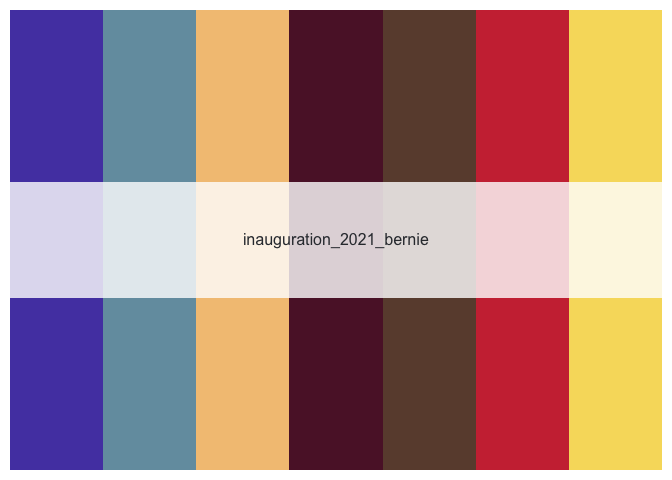
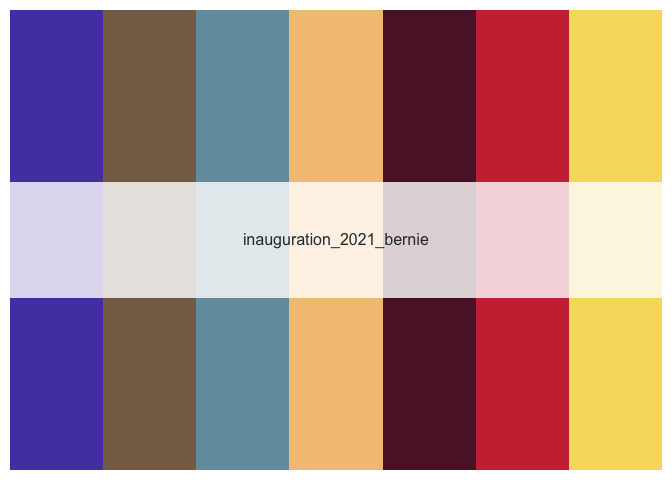
update readme

diff --git a/README.md b/README.md
@@ -23,6 +23,7 @@ library(inauguration)
 
 names(inauguration_palettes)
 #> [1] "inauguration_2021"        "inauguration_2021_bernie"
+#> [3] "bernie_mittens"
 ```
 
 You can call the palette in just one command
@@ -52,3 +53,11 @@ inauguration("inauguration_2021_bernie")
 ```
 
 <img src="man/figures/README-unnamed-chunk-5-1.png" width="100%" />
+
+![](berniemittens.jpg)
+
+``` r
+inauguration("bernie_mittens")
+```
+
+<img src="man/figures/README-unnamed-chunk-6-1.png" width="100%" />
